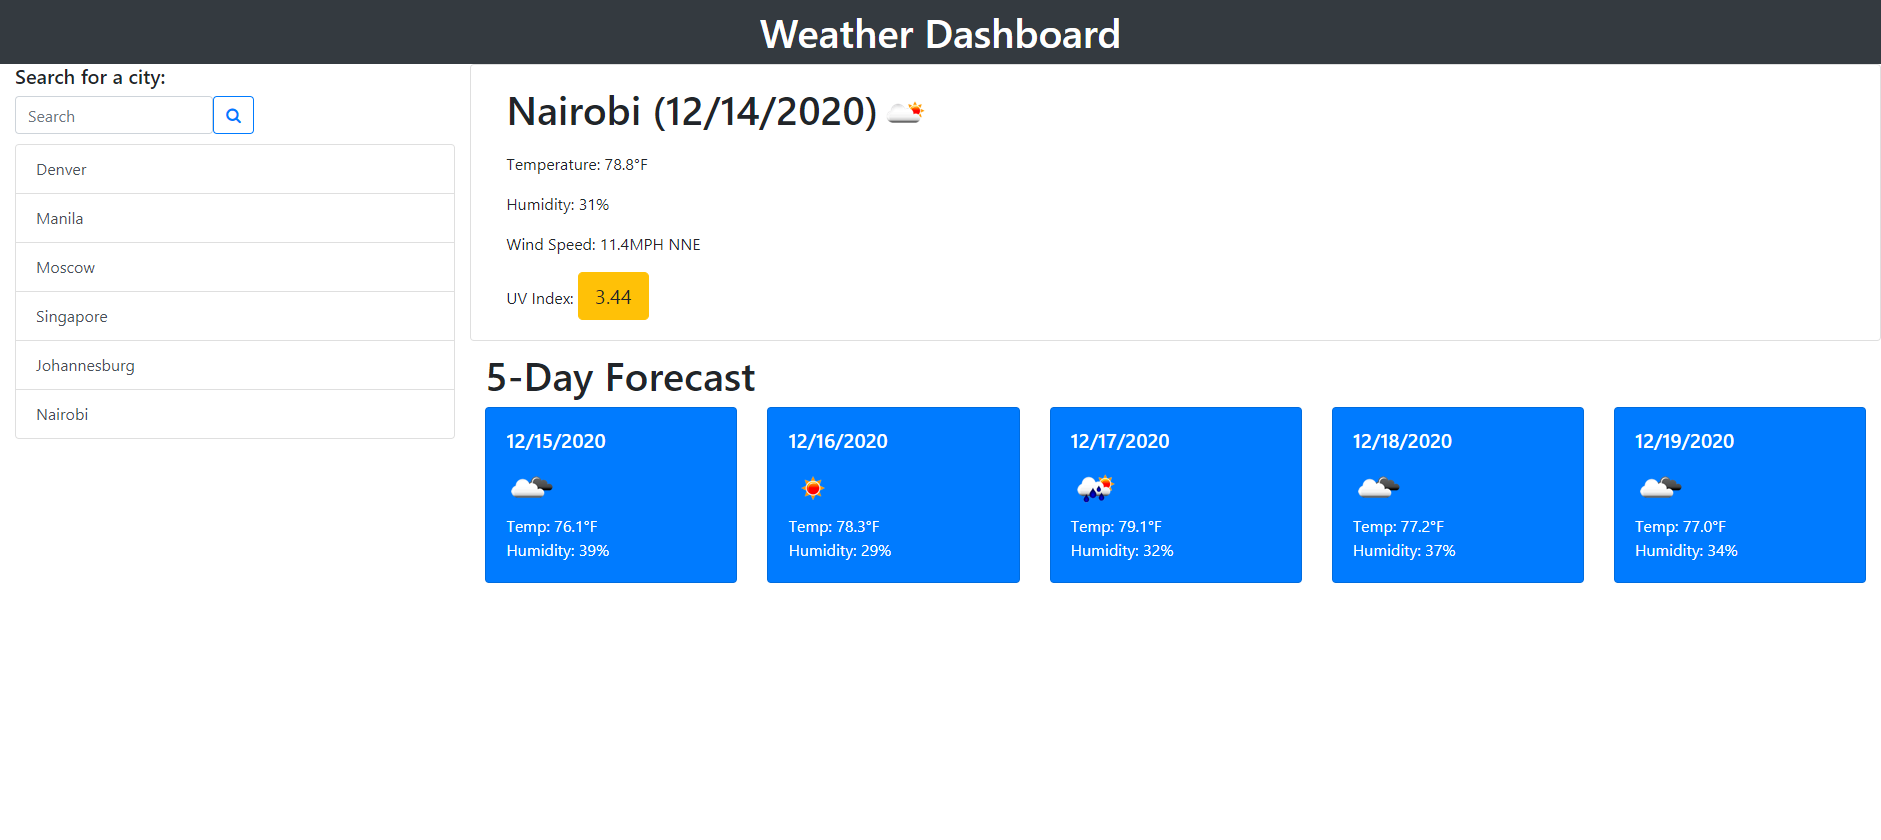
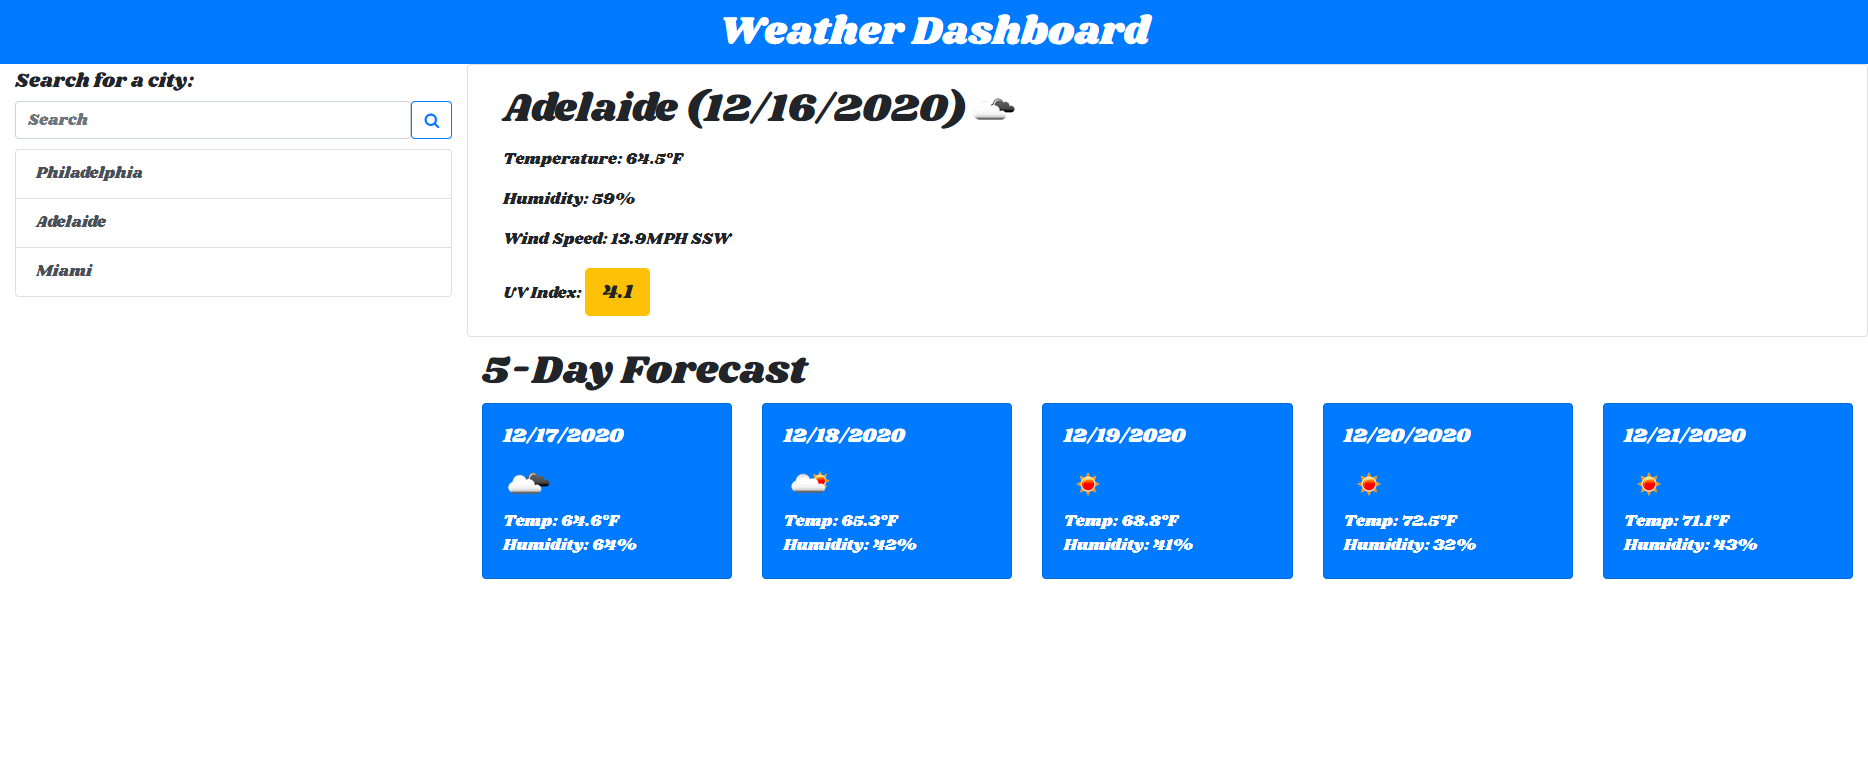
added some css styling

diff --git a/index.html b/index.html
@@ -7,50 +7,58 @@
     <link rel="stylesheet" href="https://cdn.jsdelivr.net/npm/bootstrap@4.5.3/dist/css/bootstrap.min.css"
         integrity="sha384-TX8t27EcRE3e/ihU7zmQxVncDAy5uIKz4rEkgIXeMed4M0jlfIDPvg6uqKI2xXr2" crossorigin="anonymous">
     <link rel="stylesheet" href="https://cdnjs.cloudflare.com/ajax/libs/font-awesome/4.7.0/css/font-awesome.min.css">
+    <link rel="preconnect" href="https://fonts.gstatic.com">
+    <link href="https://fonts.googleapis.com/css2?family=Fugaz+One&display=swap" rel="stylesheet">
+    <link href="https://fonts.googleapis.com/css2?family=Shrikhand&display=swap" rel="stylesheet">
     <link rel="stylesheet" href="./assets/css/style.css">
     <title>Weather Dashboard</title>
 </head>
 
 <body>
-    <nav class="navbar navbar-dark bg-dark">
+    <!-- navbar heading -->
+    <nav class="navbar bg-primary">
         <div class="container-fluid">
-            <span class="mx-auto h1 mb-0 text-color">Weather Dashboard</span>
+            <span class="mx-auto h1 mb-0 navbarColor">Weather Dashboard</span>
         </div>
     </nav>
     <div class="container-fluid">
         <div class="row">
+            <!-- Search history area -->
             <div class="col-md-3 col-xs12">
-                <h5 class="text-left">Search for a city:</h5>
+                <h5 class="text-left weatherText searchMargin">Search for a city:</h5>
                 <form class="form-inline city-form marginBottomCol">
-                    <input class="form-control" id="city-input" autocomplete="off" type="search" placeholder="Search"
+                    <input class="form-control weatherText" id="city-input" autocomplete="off" type="search" placeholder="Search"
                         aria-label="Search">
                     <button class="btn btn-outline-primary" id="add-city" type="submit"><i
                             class="fa fa-search img-fluid image-responsive"></i></button>
                 </form>
+                <!-- placeholder where searched cities are added-->
                 <div class="search-history searchHistoryMargin">
                 </div>
             </div>
             <div class="col-md col-xs">
                 <div id="weather">
                     <div class="row">
-                        <div class="card col-md col-xs marginBottomCol">
+                        <!-- current weather info area-->
+                        <div class="card col-md col-xs marginBottomCol weatherText">
                             <div class="card-body">
                                 <h1 class="card-title mainCity"></h1>
                                 <p class="card-text temp"></p>
                                 <p class="card-text humidity"></p>
                                 <p class="card-text windSpeed"></p>
-                                <p class="card-text">UV Index: <button class="uvi"></button></p>
+                                <p class="card-text">UV Index: <button class="uvi uviBtn"></button></p>
                             </div>
                         </div>
                     </div>
                     <div class="row">
-                        <h1 class="h1Margin">5-Day Forecast</h1>
+                        <h1 class="h1Margin weatherText">5-Day Forecast</h1>
                     </div>
                     <div class="row">
                         <div class="col-md col-xs">
+                            <!-- card for forecast day 1-->
                             <div class="card bg-primary text-color marginBottomCol">
                                 <div class="card-body">
-                                    <h5 class="card-title Day1"></h5>
+                                    <h5 class="card-title Day1">placeholder</h5>
                                     <p class="card-text img1"></p>
                                     <p class="card-text temp1"></p>
                                     <p class="card-text humidity1"></p>
@@ -58,9 +66,10 @@
                             </div>
                         </div>
                         <div class="col-md col-xs">
+                            <!-- card for forecast day 2-->
                             <div class="card bg-primary text-color marginBottomCol">
                                 <div class="card-body">
-                                    <h5 class="card-title Day2"></h5>
+                                    <h5 class="card-title Day2">placeholder</h5>
                                     <p class="card-text img2"></p>
                                     <p class="card-text temp2"></p>
                                     <p class="card-text humidity2"></p>
@@ -68,9 +77,10 @@
                             </div>
                         </div>
                         <div class="col-md col-xs">
+                            <!-- card for forecast day 3-->
                             <div class="card bg-primary text-color marginBottomCol">
                                 <div class="card-body">
-                                    <h5 class="card-title Day3"></h5>
+                                    <h5 class="card-title Day3">placeholder</h5>
                                     <p class="card-text img3"></p>
                                     <p class="card-text temp3"></p>
                                     <p class="card-text humidity3"></p>
@@ -78,9 +88,10 @@
                             </div>
                         </div>
                         <div class="col-md col-xs">
+                            <!-- card for forecast day 4-->
                             <div class="card bg-primary text-color marginBottomCol">
                                 <div class="card-body">
-                                    <h5 class="card-title Day4"></h5>
+                                    <h5 class="card-title Day4">placeholder</h5>
                                     <p class="card-text img4"></p>
                                     <p class="card-text temp4"></p>
                                     <p class="card-text humidity4"></p>
@@ -88,9 +99,10 @@
                             </div>
                         </div>
                         <div class="col-md col-xs">
+                            <!-- card for forecast day 5-->
                             <div class="card bg-primary text-color marginBottomCol">
                                 <div class="card-body">
-                                    <h5 class="card-title Day5"></h5>
+                                    <h5 class="card-title Day5">placeholder</h5>
                                     <p class="card-text img5"></p>
                                     <p class="card-text temp5"></p>
                                     <p class="card-text humidity5"></p>
@@ -102,8 +114,7 @@
             </div>
         </div>
     </div>
-
-
+    <!-- bootstrap includes -->
     <script src="https://cdn.jsdelivr.net/npm/@popperjs/core@2.5.4/dist/umd/popper.min.js"
         integrity="sha384-q2kxQ16AaE6UbzuKqyBE9/u/KzioAlnx2maXQHiDX9d4/zp8Ok3f+M7DPm+Ib6IU" crossorigin="anonymous">
     </script>
@@ -111,6 +122,7 @@
         integrity="sha384-pQQkAEnwaBkjpqZ8RU1fF1AKtTcHJwFl3pblpTlHXybJjHpMYo79HY3hIi4NKxyj" crossorigin="anonymous">
     </script>
     <script src="https://cdnjs.cloudflare.com/ajax/libs/jquery/3.2.1/jquery.min.js"></script>
+    <!-- day js used for time library -->
     <script src="https://unpkg.com/dayjs@1.8.21/dayjs.min.js"></script>
     <script src="https://unpkg.com/dayjs@1.8.21/plugin/utc.js"></script>
     <script>

diff --git a/assets/css/style.css b/assets/css/style.css
@@ -4,20 +4,38 @@
 
 .text-color {
     color: white;
+    font-family: 'Shrikhand', cursive;
 }
 
+/* nav bar background color at top of page */
+.navbarColor {
+    color: white;
+    font-family: 'Shrikhand', cursive;
+}
+
+.weatherText {
+    font-family: 'Shrikhand', cursive;
+}
+
+/* used to toggle current and forecast weather visible or not */
 .hidden {
     display: none;
 }
 
+/* styling to line up left edge */
 .h1Margin {
     margin-left: 15px;
 }
 
+/* separate city items when stacked vertically */
 .cityMargin {
     margin-top: 5px;
 }
 
+.searchMargin {
+    margin-top: 5px;
+}
+/* separate weather info from search history */
 .searchHistoryMargin {
     margin-top: 10px;
     margin-bottom: 5px;
@@ -28,10 +46,12 @@
     margin-bottom: 10px;
 }
 
+/* styling to round all corners of button */
 .uviBtn {
     border-radius: 0.3rem 0.3rem 0.3rem 0.3rem;
 }
 
+/* styling for paragraph tag with weather info */
 .pWeather {
     display: block;
     margin-block-start: 0px;
@@ -40,56 +60,44 @@
     margin-inline-end: 0px;
 }
 
-button {
-    font-weight: 400;
-    color: #ffffff;
-    cursor: pointer;
-    text-align: center;
-    user-select: none;
-    border: 1px solid transparent;
-    padding: .5rem 1rem;
-    font-size: 1.25rem;
-    line-height: 1.5;
-    border-radius: .3rem .3rem .3rem .3rem;
-    background-color: #007bff;
-    outline: 0;
-
 /* following styling for search icon used from https://stackoverflow.com/questions/19945281 */
-* {box-sizing: border-box;}
+    * {
+        box-sizing: border-box;
+    }
 
-.form-group {
-  display: -webkit-flex;
-  -webkit-flex-wrap: wrap;
-  display: flex;
-  flex-wrap: wrap;
-  margin-bottom: 1rem;
-}
+    .form-group {
+        display: -webkit-flex;
+        -webkit-flex-wrap: wrap;
+        display: flex;
+        flex-wrap: wrap;
+        margin-bottom: 1rem;
+    }
 
-input {
-  flex: 1 1 auto;
-  font-weight: 400;
-  height: calc(1.5em + 1rem + 2px);
-  padding: .5rem 1rem;
-  font-size: 1.25rem;
-  line-height: 1.5;
-  color: #495057;
-  background-color: #fff;
-  border: 1px solid #ced4da;
-  border-radius: .3rem 0 0 .3rem;
-  outline: 0;
-}
+    input {
+        flex: 1 1 auto;
+        font-weight: 400;
+        height: calc(1.5em + 1rem + 2px);
+        padding: .5rem 1rem;
+        font-size: 1.25rem;
+        line-height: 1.5;
+        color: #495057;
+        background-color: #fff;
+        border: 1px solid #ced4da;
+        border-radius: .3rem 0 0 .3rem;
+        outline: 0;
+    }
 
-button {
-  font-weight: 400;
-  color: #ffffff;
-  cursor: pointer;
-  text-align: center;
-  user-select: none;
-  border: 1px solid transparent;  
-  padding: .5rem 1rem;
-  font-size: 1.25rem;
-  line-height: 1.5;
-  border-radius: 0 .3rem .3rem 0;
-  background-color: #007bff;
-  outline: 0;
-}
+    button {
+        font-weight: 400;
+        color: #ffffff;
+        cursor: pointer;
+        text-align: center;
+        user-select: none;
+        border: 1px solid transparent;
+        padding: .5rem 1rem;
+        font-size: 1.25rem;
+        line-height: 1.5;
+        border-radius: 0 .3rem .3rem 0;
+        background-color: #007bff;
+        outline: 0;
+    }

diff --git a/assets/js/script.js b/assets/js/script.js
@@ -4,6 +4,7 @@ var cities = [];
 var city = JSON.parse(localStorage.getItem("SavedCity"));
 var cityLat;
 var cityLon;
+var windDir;
 
 /* grab current day using day js to display at top of planner */
 var now = dayjs().format('M/DD/YYYY');
@@ -39,8 +40,9 @@ function windDirection(windDeg) {
 }
 
 function displayWeatherInfo() {
+    var url;
     /* build url for weather api call utilzing the city chosen */
-    var url = weatherMap + city + "&units=imperial&appid=" + apiKey;
+    url = weatherMap + city + "&units=imperial&appid=" + apiKey;
     /* make ajax call to retrieve weather object for user selected city */
     $.ajax({
         type: "GET",
@@ -73,21 +75,21 @@ function displayWeatherInfo() {
                     $(".temp").text("Temperature: " + response.current.temp.toFixed(1) + "\u00B0F");
                     $(".humidity").text("Humidity: " + response.current.humidity + "%");
                     var windDeg = response.current.wind_deg;
-                    var windDir = windDirection(windDeg);
+                    windDir = windDirection(windDeg);
                     $(".windSpeed").text("Wind Speed: " + response.current.wind_speed.toFixed(1) + "MPH  " + windDir);
                     $(".uvi").text(response.current.uvi);
                     if (response.current.uvi <= 2) {
-                        $(".uvi").attr("class", "uvi btn-success");
+                        $(".uvi").attr("class", "uvi uviBtn btn-success");
                     } else if (response.current.uvi <= 5) {
-                        $(".uvi").attr("class", "uvi btn-warning");
+                        $(".uvi").attr("class", "uvi uviBtn btn-warning");
                     } else {
-                        $(".uvi").attr("class", "uvi btn-danger");
+                        $(".uvi").attr("class", "uvi uviBtn btn-danger");
                     }
                     var icon = response.current.weather[0].icon;
-                    var imgEl = $("<img>");
-                    $(imgEl).attr("src", "https://openweathermap.org/img/w/" + icon + ".png");
+                    var imgcurEl = $("<img>");
+                    $(imgcurEl).attr("src", "https://openweathermap.org/img/w/" + icon + ".png");
                     /* display current weather icon image on html page */
-                    $(".mainCity").append(imgEl);
+                    $(".mainCity").append(imgcurEl);
 
                     /* loop through 5 day forecast and add weather info to page */
                     for (var i = 0; i < 5; i++) {
@@ -131,7 +133,7 @@ function displaySearchHistory() {
         var divEl = $("<a>");
         /* add attributes and classes to <a> element */
         $(divEl).attr("href", "#");
-        $(divEl).addClass("list-group-item list-group-item-action");
+        $(divEl).addClass("list-group-item list-group-item-action weatherText");
         /* set name of city to button <a> tag */
         $(divEl).text(cities[k]);
         /* append <a> tag to list group */
